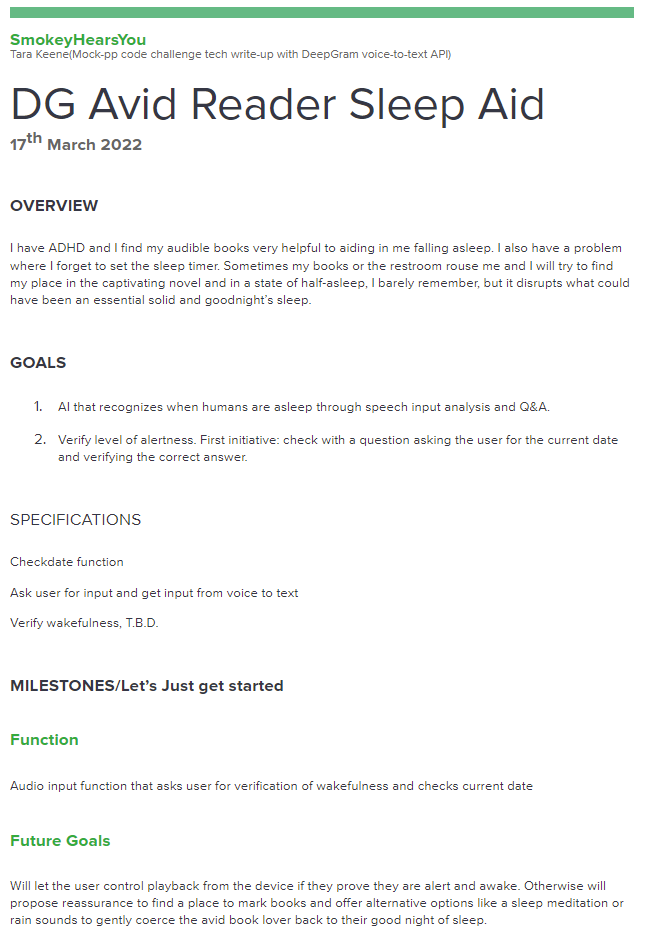
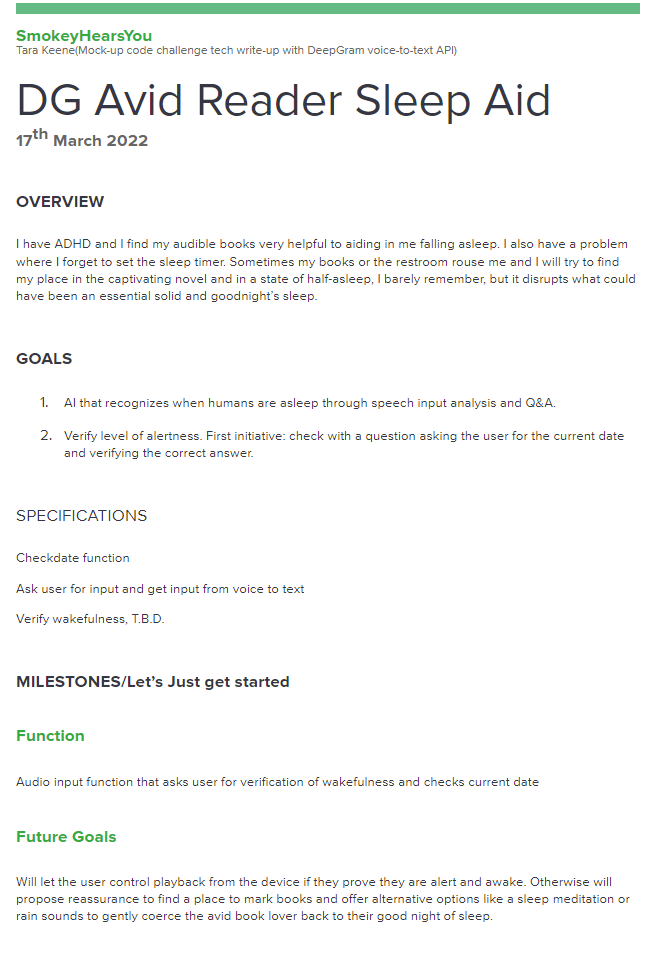
fix html typo

Changed region(s): [[0.0, 0.0, 0.9786, 0.4952], [0.0, 0.5261, 0.948, 0.9904]]

diff --git a/READMEgDoc/Project proposal/Projectproposal.html b/READMEgDoc/Project proposal/Projectproposal.html
@@ -1,1 +1,1 @@
-<html><head><meta content="text/html; charset=UTF-8" http-equiv="content-type"><style type="text/css">@import url('https://themes.googleusercontent.com/fonts/css?kit=3qINvnjb346LubKDfLRn69t6G6Z1RrRfgULZ1AHo7mPOfsfM6rvuuu7h1pY3r_-A');.lst-kix_tsy7d9cmpnql-7>li{counter-increment:lst-ctn-kix_tsy7d9cmpnql-7}ol.lst-kix_1eziyh8wpo9m-7.start{counter-reset:lst-ctn-kix_1eziyh8wpo9m-7 0}.lst-kix_w1b687jpl7aq-2>li{counter-increment:lst-ctn-kix_w1b687jpl7aq-2}.lst-kix_ktelr1m10za6-0>li:before{content:"" counter(lst-ctn-kix_ktelr1m10za6-0,upper-roman) ". "}.lst-kix_ktelr1m10za6-1>li:before{content:"" counter(lst-ctn-kix_ktelr1m10za6-1,upper-latin) ". "}.lst-kix_ktelr1m10za6-3>li:before{content:"" counter(lst-ctn-kix_ktelr1m10za6-3,lower-latin) ") "}.lst-kix_olk4fr9lh4l1-8>li{counter-increment:lst-ctn-kix_olk4fr9lh4l1-8}.lst-kix_ktelr1m10za6-2>li:before{content:"" counter(lst-ctn-kix_ktelr1m10za6-2,decimal) ". "}ol.lst-kix_olk4fr9lh4l1-3.start{counter-reset:lst-ctn-kix_olk4fr9lh4l1-3 0}ol.lst-kix_nmvs9ggv30vs-3.start{counter-reset:lst-ctn-kix_nmvs9ggv30vs-3 0}.lst-kix_olk4fr9lh4l1-6>li{counter-increment:lst-ctn-kix_olk4fr9lh4l1-6}.lst-kix_1eziyh8wpo9m-8>li{counter-increment:lst-ctn-kix_1eziyh8wpo9m-8}.lst-kix_w1b687jpl7aq-0>li{counter-increment:lst-ctn-kix_w1b687jpl7aq-0}ol.lst-kix_ktelr1m10za6-3.start{counter-reset:lst-ctn-kix_ktelr1m10za6-3 0}.lst-kix_w1b687jpl7aq-6>li{counter-increment:lst-ctn-kix_w1b687jpl7aq-6}.lst-kix_tsy7d9cmpnql-5>li{counter-increment:lst-ctn-kix_tsy7d9cmpnql-5}ol.lst-kix_olk4fr9lh4l1-8.start{counter-reset:lst-ctn-kix_olk4fr9lh4l1-8 0}ol.lst-kix_ktelr1m10za6-4.start{counter-reset:lst-ctn-kix_ktelr1m10za6-4 0}.lst-kix_nmvs9ggv30vs-2>li{counter-increment:lst-ctn-kix_nmvs9ggv30vs-2}ol.lst-kix_nmvs9ggv30vs-5{list-style-type:none}ol.lst-kix_nmvs9ggv30vs-4{list-style-type:none}ol.lst-kix_nmvs9ggv30vs-7{list-style-type:none}ol.lst-kix_nmvs9ggv30vs-6{list-style-type:none}.lst-kix_ktelr1m10za6-5>li:before{content:"(" counter(lst-ctn-kix_ktelr1m10za6-5,lower-latin) ") "}.lst-kix_ktelr1m10za6-7>li:before{content:"(" counter(lst-ctn-kix_ktelr1m10za6-7,lower-latin) ") "}ol.lst-kix_nmvs9ggv30vs-8{list-style-type:none}.lst-kix_ktelr1m10za6-4>li:before{content:"(" counter(lst-ctn-kix_ktelr1m10za6-4,decimal) ") "}.lst-kix_ktelr1m10za6-8>li:before{content:"(" counter(lst-ctn-kix_ktelr1m10za6-8,lower-roman) ") "}.lst-kix_olk4fr9lh4l1-1>li{counter-increment:lst-ctn-kix_olk4fr9lh4l1-1}.lst-kix_ktelr1m10za6-6>li:before{content:"(" counter(lst-ctn-kix_ktelr1m10za6-6,lower-roman) ") "}.lst-kix_olk4fr9lh4l1-4>li{counter-increment:lst-ctn-kix_olk4fr9lh4l1-4}.lst-kix_ktelr1m10za6-0>li{counter-increment:lst-ctn-kix_ktelr1m10za6-0}ol.lst-kix_olk4fr9lh4l1-2.start{counter-reset:lst-ctn-kix_olk4fr9lh4l1-2 0}ol.lst-kix_nmvs9ggv30vs-1{list-style-type:none}.lst-kix_1eziyh8wpo9m-1>li{counter-increment:lst-ctn-kix_1eziyh8wpo9m-1}ol.lst-kix_nmvs9ggv30vs-0{list-style-type:none}ol.lst-kix_nmvs9ggv30vs-3{list-style-type:none}ol.lst-kix_nmvs9ggv30vs-2{list-style-type:none}ol.lst-kix_tsy7d9cmpnql-6.start{counter-reset:lst-ctn-kix_tsy7d9cmpnql-6 0}.lst-kix_1eziyh8wpo9m-5>li{counter-increment:lst-ctn-kix_1eziyh8wpo9m-5}ol.lst-kix_nmvs9ggv30vs-4.start{counter-reset:lst-ctn-kix_nmvs9ggv30vs-4 0}.lst-kix_w1b687jpl7aq-3>li:before{content:"" counter(lst-ctn-kix_w1b687jpl7aq-3,decimal) ". "}ol.lst-kix_ktelr1m10za6-2.start{counter-reset:lst-ctn-kix_ktelr1m10za6-2 0}ol.lst-kix_nmvs9ggv30vs-1.start{counter-reset:lst-ctn-kix_nmvs9ggv30vs-1 0}ol.lst-kix_w1b687jpl7aq-1.start{counter-reset:lst-ctn-kix_w1b687jpl7aq-1 0}.lst-kix_w1b687jpl7aq-5>li:before{content:"" counter(lst-ctn-kix_w1b687jpl7aq-5,lower-roman) ". "}ol.lst-kix_tsy7d9cmpnql-3.start{counter-reset:lst-ctn-kix_tsy7d9cmpnql-3 0}.lst-kix_w1b687jpl7aq-8>li{counter-increment:lst-ctn-kix_w1b687jpl7aq-8}.lst-kix_tsy7d9cmpnql-1>li{counter-increment:lst-ctn-kix_tsy7d9cmpnql-1}.lst-kix_w1b687jpl7aq-7>li:before{content:"" counter(lst-ctn-kix_w1b687jpl7aq-7,lower-latin) ". "}ol.lst-kix_w1b687jpl7aq-4.start{counter-reset:lst-ctn-kix_w1b687jpl7aq-4 0}.lst-kix_nmvs9ggv30vs-4>li{counter-increment:lst-ctn-kix_nmvs9ggv30vs-4}.lst-kix_ktelr1m10za6-7>li{counter-increment:lst-ctn-kix_ktelr1m10za6-7}ol.lst-kix_1eziyh8wpo9m-6.start{counter-reset:lst-ctn-kix_1eziyh8wpo9m-6 0}.lst-kix_w1b687jpl7aq-1>li:before{content:"" counter(lst-ctn-kix_w1b687jpl7aq-1,lower-latin) ". "}ol.lst-kix_olk4fr9lh4l1-4.start{counter-reset:lst-ctn-kix_olk4fr9lh4l1-4 0}ol.lst-kix_olk4fr9lh4l1-7.start{counter-reset:lst-ctn-kix_olk4fr9lh4l1-7 0}ol.lst-kix_ktelr1m10za6-0.start{counter-reset:lst-ctn-kix_ktelr1m10za6-0 0}.lst-kix_olk4fr9lh4l1-0>li{counter-increment:lst-ctn-kix_olk4fr9lh4l1-0}.lst-kix_ktelr1m10za6-8>li{counter-increment:lst-ctn-kix_ktelr1m10za6-8}ol.lst-kix_tsy7d9cmpnql-4.start{counter-reset:lst-ctn-kix_tsy7d9cmpnql-4 0}ol.lst-kix_w1b687jpl7aq-3.start{counter-reset:lst-ctn-kix_w1b687jpl7aq-3 0}.lst-kix_nmvs9ggv30vs-3>li{counter-increment:lst-ctn-kix_nmvs9ggv30vs-3}.lst-kix_ktelr1m10za6-2>li{counter-increment:lst-ctn-kix_ktelr1m10za6-2}ol.lst-kix_1eziyh8wpo9m-8.start{counter-reset:lst-ctn-kix_1eziyh8wpo9m-8 0}.lst-kix_1eziyh8wpo9m-6>li{counter-increment:lst-ctn-kix_1eziyh8wpo9m-6}.lst-kix_olk4fr9lh4l1-5>li{counter-increment:lst-ctn-kix_olk4fr9lh4l1-5}.lst-kix_tsy7d9cmpnql-3>li:before{content:"" counter(lst-ctn-kix_tsy7d9cmpnql-3,decimal) ". "}.lst-kix_w1b687jpl7aq-7>li{counter-increment:lst-ctn-kix_w1b687jpl7aq-7}.lst-kix_nmvs9ggv30vs-3>li:before{content:"" counter(lst-ctn-kix_nmvs9ggv30vs-3,decimal) ". "}.lst-kix_tsy7d9cmpnql-0>li{counter-increment:lst-ctn-kix_tsy7d9cmpnql-0}.lst-kix_tsy7d9cmpnql-1>li:before{content:"" counter(lst-ctn-kix_tsy7d9cmpnql-1,lower-latin) ". "}.lst-kix_tsy7d9cmpnql-5>li:before{content:"" counter(lst-ctn-kix_tsy7d9cmpnql-5,lower-roman) ". "}.lst-kix_nmvs9ggv30vs-1>li:before{content:"" counter(lst-ctn-kix_nmvs9ggv30vs-1,lower-latin) ". "}.lst-kix_nmvs9ggv30vs-5>li:before{content:"" counter(lst-ctn-kix_nmvs9ggv30vs-5,lower-roman) ". "}ol.lst-kix_tsy7d9cmpnql-7{list-style-type:none}ol.lst-kix_tsy7d9cmpnql-6{list-style-type:none}ol.lst-kix_tsy7d9cmpnql-8{list-style-type:none}ol.lst-kix_ktelr1m10za6-1.start{counter-reset:lst-ctn-kix_ktelr1m10za6-1 0}ol.lst-kix_tsy7d9cmpnql-3{list-style-type:none}ol.lst-kix_tsy7d9cmpnql-2{list-style-type:none}.lst-kix_w1b687jpl7aq-1>li{counter-increment:lst-ctn-kix_w1b687jpl7aq-1}ol.lst-kix_w1b687jpl7aq-2.start{counter-reset:lst-ctn-kix_w1b687jpl7aq-2 0}ol.lst-kix_olk4fr9lh4l1-5.start{counter-reset:lst-ctn-kix_olk4fr9lh4l1-5 0}ol.lst-kix_tsy7d9cmpnql-5{list-style-type:none}ol.lst-kix_tsy7d9cmpnql-5.start{counter-reset:lst-ctn-kix_tsy7d9cmpnql-5 0}ol.lst-kix_tsy7d9cmpnql-4{list-style-type:none}ol.lst-kix_tsy7d9cmpnql-1{list-style-type:none}ol.lst-kix_tsy7d9cmpnql-0{list-style-type:none}.lst-kix_tsy7d9cmpnql-7>li:before{content:"" counter(lst-ctn-kix_tsy7d9cmpnql-7,lower-latin) ". "}.lst-kix_nmvs9ggv30vs-7>li:before{content:"" counter(lst-ctn-kix_nmvs9ggv30vs-7,lower-latin) ". "}.lst-kix_tsy7d9cmpnql-6>li{counter-increment:lst-ctn-kix_tsy7d9cmpnql-6}ol.lst-kix_nmvs9ggv30vs-2.start{counter-reset:lst-ctn-kix_nmvs9ggv30vs-2 0}ol.lst-kix_olk4fr9lh4l1-6.start{counter-reset:lst-ctn-kix_olk4fr9lh4l1-6 0}ol.lst-kix_w1b687jpl7aq-5.start{counter-reset:lst-ctn-kix_w1b687jpl7aq-5 0}.lst-kix_tsy7d9cmpnql-8>li{counter-increment:lst-ctn-kix_tsy7d9cmpnql-8}.lst-kix_tsy7d9cmpnql-0>li:before{content:"" counter(lst-ctn-kix_tsy7d9cmpnql-0,upper-latin) ". "}.lst-kix_nmvs9ggv30vs-1>li{counter-increment:lst-ctn-kix_nmvs9ggv30vs-1}.lst-kix_1eziyh8wpo9m-0>li{counter-increment:lst-ctn-kix_1eziyh8wpo9m-0}ol.lst-kix_olk4fr9lh4l1-0.start{counter-reset:lst-ctn-kix_olk4fr9lh4l1-0 0}.lst-kix_olk4fr9lh4l1-8>li:before{content:"" counter(lst-ctn-kix_olk4fr9lh4l1-8,decimal) ". "}.lst-kix_olk4fr9lh4l1-7>li:before{content:"" counter(lst-ctn-kix_olk4fr9lh4l1-7,lower-roman) ". "}.lst-kix_olk4fr9lh4l1-6>li:before{content:"" counter(lst-ctn-kix_olk4fr9lh4l1-6,lower-latin) ". "}.lst-kix_ktelr1m10za6-1>li{counter-increment:lst-ctn-kix_ktelr1m10za6-1}ol.lst-kix_ktelr1m10za6-6.start{counter-reset:lst-ctn-kix_ktelr1m10za6-6 0}ol.lst-kix_nmvs9ggv30vs-0.start{counter-reset:lst-ctn-kix_nmvs9ggv30vs-0 0}.lst-kix_w1b687jpl7aq-3>li{counter-increment:lst-ctn-kix_w1b687jpl7aq-3}ol.lst-kix_tsy7d9cmpnql-7.start{counter-reset:lst-ctn-kix_tsy7d9cmpnql-7 0}ol.lst-kix_w1b687jpl7aq-0.start{counter-reset:lst-ctn-kix_w1b687jpl7aq-0 0}.lst-kix_1eziyh8wpo9m-2>li:before{content:"" counter(lst-ctn-kix_1eziyh8wpo9m-2,lower-roman) ". "}ol.lst-kix_w1b687jpl7aq-0{list-style-type:none}.lst-kix_1eziyh8wpo9m-4>li:before{content:"" counter(lst-ctn-kix_1eziyh8wpo9m-4,lower-latin) ". "}.lst-kix_1eziyh8wpo9m-1>li:before{content:"" counter(lst-ctn-kix_1eziyh8wpo9m-1,lower-latin) ". "}ol.lst-kix_1eziyh8wpo9m-5.start{counter-reset:lst-ctn-kix_1eziyh8wpo9m-5 0}.lst-kix_1eziyh8wpo9m-5>li:before{content:"" counter(lst-ctn-kix_1eziyh8wpo9m-5,lower-roman) ". "}.lst-kix_1eziyh8wpo9m-7>li{counter-increment:lst-ctn-kix_1eziyh8wpo9m-7}ol.lst-kix_w1b687jpl7aq-6{list-style-type:none}ol.lst-kix_olk4fr9lh4l1-1.start{counter-reset:lst-ctn-kix_olk4fr9lh4l1-1 0}.lst-kix_nmvs9ggv30vs-8>li{counter-increment:lst-ctn-kix_nmvs9ggv30vs-8}ol.lst-kix_w1b687jpl7aq-5{list-style-type:none}ol.lst-kix_w1b687jpl7aq-8{list-style-type:none}ol.lst-kix_w1b687jpl7aq-7{list-style-type:none}ol.lst-kix_w1b687jpl7aq-2{list-style-type:none}ol.lst-kix_w1b687jpl7aq-1{list-style-type:none}ol.lst-kix_w1b687jpl7aq-4{list-style-type:none}.lst-kix_1eziyh8wpo9m-3>li:before{content:"" counter(lst-ctn-kix_1eziyh8wpo9m-3,decimal) ". "}ol.lst-kix_w1b687jpl7aq-3{list-style-type:none}ol.lst-kix_nmvs9ggv30vs-6.start{counter-reset:lst-ctn-kix_nmvs9ggv30vs-6 0}.lst-kix_olk4fr9lh4l1-3>li:before{content:"" counter(lst-ctn-kix_olk4fr9lh4l1-3,lower-latin) ". "}ol.lst-kix_tsy7d9cmpnql-1.start{counter-reset:lst-ctn-kix_tsy7d9cmpnql-1 0}.lst-kix_olk4fr9lh4l1-1>li:before{content:"" counter(lst-ctn-kix_olk4fr9lh4l1-1,lower-roman) ". "}.lst-kix_olk4fr9lh4l1-5>li:before{content:"" counter(lst-ctn-kix_olk4fr9lh4l1-5,decimal) ". "}ol.lst-kix_tsy7d9cmpnql-8.start{counter-reset:lst-ctn-kix_tsy7d9cmpnql-8 0}.lst-kix_olk4fr9lh4l1-0>li:before{content:"" counter(lst-ctn-kix_olk4fr9lh4l1-0,lower-latin) ". "}.lst-kix_olk4fr9lh4l1-4>li:before{content:"" counter(lst-ctn-kix_olk4fr9lh4l1-4,lower-roman) ". "}.lst-kix_1eziyh8wpo9m-0>li:before{content:"" counter(lst-ctn-kix_1eziyh8wpo9m-0,upper-latin) ". "}.lst-kix_tsy7d9cmpnql-4>li{counter-increment:lst-ctn-kix_tsy7d9cmpnql-4}.lst-kix_w1b687jpl7aq-5>li{counter-increment:lst-ctn-kix_w1b687jpl7aq-5}.lst-kix_olk4fr9lh4l1-2>li:before{content:"" counter(lst-ctn-kix_olk4fr9lh4l1-2,decimal) ". "}ol.lst-kix_1eziyh8wpo9m-2{list-style-type:none}ol.lst-kix_1eziyh8wpo9m-1{list-style-type:none}ol.lst-kix_1eziyh8wpo9m-0{list-style-type:none}.lst-kix_ktelr1m10za6-6>li{counter-increment:lst-ctn-kix_ktelr1m10za6-6}ol.lst-kix_tsy7d9cmpnql-2.start{counter-reset:lst-ctn-kix_tsy7d9cmpnql-2 0}ol.lst-kix_nmvs9ggv30vs-5.start{counter-reset:lst-ctn-kix_nmvs9ggv30vs-5 0}.lst-kix_ktelr1m10za6-3>li{counter-increment:lst-ctn-kix_ktelr1m10za6-3}.lst-kix_olk4fr9lh4l1-7>li{counter-increment:lst-ctn-kix_olk4fr9lh4l1-7}.lst-kix_1eziyh8wpo9m-4>li{counter-increment:lst-ctn-kix_1eziyh8wpo9m-4}.lst-kix_1eziyh8wpo9m-6>li:before{content:"" counter(lst-ctn-kix_1eziyh8wpo9m-6,decimal) ". "}.lst-kix_1eziyh8wpo9m-8>li:before{content:"" counter(lst-ctn-kix_1eziyh8wpo9m-8,lower-roman) ". "}ol.lst-kix_1eziyh8wpo9m-4.start{counter-reset:lst-ctn-kix_1eziyh8wpo9m-4 0}.lst-kix_1eziyh8wpo9m-7>li:before{content:"" counter(lst-ctn-kix_1eziyh8wpo9m-7,lower-latin) ". "}ol.lst-kix_ktelr1m10za6-3{list-style-type:none}ol.lst-kix_ktelr1m10za6-5.start{counter-reset:lst-ctn-kix_ktelr1m10za6-5 0}ol.lst-kix_ktelr1m10za6-4{list-style-type:none}ol.lst-kix_ktelr1m10za6-1{list-style-type:none}.lst-kix_olk4fr9lh4l1-2>li{counter-increment:lst-ctn-kix_olk4fr9lh4l1-2}ol.lst-kix_1eziyh8wpo9m-0.start{counter-reset:lst-ctn-kix_1eziyh8wpo9m-0 0}ol.lst-kix_ktelr1m10za6-2{list-style-type:none}ol.lst-kix_ktelr1m10za6-0{list-style-type:none}.lst-kix_w1b687jpl7aq-2>li:before{content:"" counter(lst-ctn-kix_w1b687jpl7aq-2,lower-roman) ". "}.lst-kix_nmvs9ggv30vs-6>li{counter-increment:lst-ctn-kix_nmvs9ggv30vs-6}ol.lst-kix_1eziyh8wpo9m-3.start{counter-reset:lst-ctn-kix_1eziyh8wpo9m-3 0}.lst-kix_w1b687jpl7aq-4>li:before{content:"" counter(lst-ctn-kix_w1b687jpl7aq-4,lower-latin) ". "}.lst-kix_w1b687jpl7aq-6>li:before{content:"" counter(lst-ctn-kix_w1b687jpl7aq-6,decimal) ". "}ol.lst-kix_1eziyh8wpo9m-6{list-style-type:none}ol.lst-kix_1eziyh8wpo9m-5{list-style-type:none}.lst-kix_nmvs9ggv30vs-5>li{counter-increment:lst-ctn-kix_nmvs9ggv30vs-5}ol.lst-kix_1eziyh8wpo9m-4{list-style-type:none}ol.lst-kix_1eziyh8wpo9m-3{list-style-type:none}.lst-kix_w1b687jpl7aq-8>li:before{content:"" counter(lst-ctn-kix_w1b687jpl7aq-8,lower-roman) ". "}ol.lst-kix_ktelr1m10za6-7{list-style-type:none}ol.lst-kix_ktelr1m10za6-8{list-style-type:none}ol.lst-kix_1eziyh8wpo9m-8{list-style-type:none}ol.lst-kix_ktelr1m10za6-5{list-style-type:none}.lst-kix_ktelr1m10za6-5>li{counter-increment:lst-ctn-kix_ktelr1m10za6-5}ol.lst-kix_1eziyh8wpo9m-7{list-style-type:none}ol.lst-kix_ktelr1m10za6-6{list-style-type:none}.lst-kix_1eziyh8wpo9m-3>li{counter-increment:lst-ctn-kix_1eziyh8wpo9m-3}.lst-kix_ktelr1m10za6-4>li{counter-increment:lst-ctn-kix_ktelr1m10za6-4}ol.lst-kix_tsy7d9cmpnql-0.start{counter-reset:lst-ctn-kix_tsy7d9cmpnql-0 0}ol.lst-kix_w1b687jpl7aq-6.start{counter-reset:lst-ctn-kix_w1b687jpl7aq-6 0}.lst-kix_tsy7d9cmpnql-2>li{counter-increment:lst-ctn-kix_tsy7d9cmpnql-2}.lst-kix_olk4fr9lh4l1-3>li{counter-increment:lst-ctn-kix_olk4fr9lh4l1-3}ol.lst-kix_nmvs9ggv30vs-7.start{counter-reset:lst-ctn-kix_nmvs9ggv30vs-7 0}.lst-kix_w1b687jpl7aq-0>li:before{content:"" counter(lst-ctn-kix_w1b687jpl7aq-0,decimal) ". "}.lst-kix_nmvs9ggv30vs-7>li{counter-increment:lst-ctn-kix_nmvs9ggv30vs-7}ol.lst-kix_olk4fr9lh4l1-0{list-style-type:none}ol.lst-kix_1eziyh8wpo9m-2.start{counter-reset:lst-ctn-kix_1eziyh8wpo9m-2 0}.lst-kix_1eziyh8wpo9m-2>li{counter-increment:lst-ctn-kix_1eziyh8wpo9m-2}ol.lst-kix_w1b687jpl7aq-7.start{counter-reset:lst-ctn-kix_w1b687jpl7aq-7 0}ol.lst-kix_ktelr1m10za6-7.start{counter-reset:lst-ctn-kix_ktelr1m10za6-7 0}ol.lst-kix_olk4fr9lh4l1-4{list-style-type:none}ol.lst-kix_olk4fr9lh4l1-3{list-style-type:none}ol.lst-kix_olk4fr9lh4l1-2{list-style-type:none}ol.lst-kix_olk4fr9lh4l1-1{list-style-type:none}ol.lst-kix_olk4fr9lh4l1-8{list-style-type:none}.lst-kix_nmvs9ggv30vs-0>li:before{content:"" counter(lst-ctn-kix_nmvs9ggv30vs-0,decimal) ". "}ol.lst-kix_olk4fr9lh4l1-7{list-style-type:none}ol.lst-kix_olk4fr9lh4l1-6{list-style-type:none}ol.lst-kix_olk4fr9lh4l1-5{list-style-type:none}.lst-kix_nmvs9ggv30vs-2>li:before{content:"" counter(lst-ctn-kix_nmvs9ggv30vs-2,lower-roman) ". "}.lst-kix_tsy7d9cmpnql-2>li:before{content:"" counter(lst-ctn-kix_tsy7d9cmpnql-2,lower-roman) ". "}.lst-kix_tsy7d9cmpnql-4>li:before{content:"" counter(lst-ctn-kix_tsy7d9cmpnql-4,lower-latin) ". "}.lst-kix_w1b687jpl7aq-4>li{counter-increment:lst-ctn-kix_w1b687jpl7aq-4}.lst-kix_tsy7d9cmpnql-3>li{counter-increment:lst-ctn-kix_tsy7d9cmpnql-3}ol.lst-kix_1eziyh8wpo9m-1.start{counter-reset:lst-ctn-kix_1eziyh8wpo9m-1 0}ol.lst-kix_nmvs9ggv30vs-8.start{counter-reset:lst-ctn-kix_nmvs9ggv30vs-8 0}.lst-kix_nmvs9ggv30vs-4>li:before{content:"" counter(lst-ctn-kix_nmvs9ggv30vs-4,lower-latin) ". "}li.li-bullet-0:before{margin-left:-18pt;white-space:nowrap;display:inline-block;min-width:18pt}ol.lst-kix_ktelr1m10za6-8.start{counter-reset:lst-ctn-kix_ktelr1m10za6-8 0}ol.lst-kix_w1b687jpl7aq-8.start{counter-reset:lst-ctn-kix_w1b687jpl7aq-8 0}.lst-kix_nmvs9ggv30vs-0>li{counter-increment:lst-ctn-kix_nmvs9ggv30vs-0}.lst-kix_nmvs9ggv30vs-6>li:before{content:"" counter(lst-ctn-kix_nmvs9ggv30vs-6,decimal) ". "}.lst-kix_tsy7d9cmpnql-6>li:before{content:"" counter(lst-ctn-kix_tsy7d9cmpnql-6,decimal) ". "}.lst-kix_tsy7d9cmpnql-8>li:before{content:"" counter(lst-ctn-kix_tsy7d9cmpnql-8,lower-roman) ". "}.lst-kix_nmvs9ggv30vs-8>li:before{content:"" counter(lst-ctn-kix_nmvs9ggv30vs-8,lower-roman) ". "}ol{margin:0;padding:0}table td,table th{padding:0}.c4{margin-left:36pt;padding-top:10pt;padding-left:0pt;padding-bottom:0pt;line-height:1.3;orphans:2;widows:2;text-align:left}.c10{color:#666666;font-weight:400;text-decoration:none;vertical-align:baseline;font-size:9pt;font-family:"Proxima Nova";font-style:normal}.c15{padding-top:20pt;padding-bottom:0pt;line-height:1.3;orphans:2;widows:2;text-align:left;height:11pt}.c16{color:#353744;font-weight:400;text-decoration:none;vertical-align:baseline;font-size:11pt;font-family:"Proxima Nova";font-style:normal}.c8{color:#353744;font-weight:400;text-decoration:none;vertical-align:baseline;font-size:12pt;font-family:"Proxima Nova";font-style:normal}.c3{color:#00ab44;font-weight:700;text-decoration:none;vertical-align:baseline;font-size:13pt;font-family:"Proxima Nova";font-style:normal}.c6{color:#353744;font-weight:700;text-decoration:none;vertical-align:baseline;font-size:13pt;font-family:"Proxima Nova";font-style:normal}.c0{color:#353744;font-weight:400;text-decoration:none;vertical-align:baseline;font-size:10pt;font-family:"Proxima Nova";font-style:normal}.c5{padding-top:0pt;padding-bottom:0pt;line-height:1.0;orphans:2;widows:2;text-align:left}.c7{padding-top:16pt;padding-bottom:0pt;line-height:1.0;orphans:2;widows:2;text-align:left}.c9{padding-top:10pt;padding-bottom:0pt;line-height:1.3;orphans:2;widows:2;text-align:left}.c23{padding-top:0pt;padding-bottom:10pt;line-height:1.0;orphans:2;widows:2;text-align:left}.c13{padding-top:0pt;padding-bottom:0pt;line-height:1.3;orphans:2;widows:2;text-align:left}.c2{padding-top:24pt;padding-bottom:0pt;line-height:1.0;orphans:2;widows:2;text-align:left}.c24{color:#666666;text-decoration:none;vertical-align:baseline;font-family:"Proxima Nova";font-style:normal}.c20{color:#353744;text-decoration:none;vertical-align:baseline;font-size:35pt;font-style:normal}.c17{background-color:#ffffff;max-width:468pt;padding:54pt 72pt 54pt 72pt}.c18{color:#666666;font-size:9pt}.c21{padding:0;margin:0}.c11{vertical-align:super;font-weight:700}.c19{font-family:"Proxima Nova";font-weight:400}.c14{font-weight:700}.c22{font-size:35pt}.c12{font-size:13pt}.c1{font-size:10pt}.title{padding-top:16pt;color:#353744;font-size:36pt;padding-bottom:0pt;font-family:"Proxima Nova";line-height:1.0;orphans:2;widows:2;text-align:left}.subtitle{padding-top:0pt;color:#666666;font-size:13pt;padding-bottom:0pt;font-family:"Proxima Nova";line-height:1.0;orphans:2;widows:2;text-align:left}li{color:#353744;font-size:11pt;font-family:"Proxima Nova"}p{margin:0;color:#353744;font-size:11pt;font-family:"Proxima Nova"}h1{padding-top:24pt;color:#353744;font-weight:700;font-size:14pt;padding-bottom:0pt;font-family:"Proxima Nova";line-height:1.0;orphans:2;widows:2;text-align:left}h2{padding-top:16pt;color:#00ab44;font-weight:700;font-size:14pt;padding-bottom:0pt;font-family:"Proxima Nova";line-height:1.0;orphans:2;widows:2;text-align:left}h3{padding-top:10pt;color:#353744;font-size:13pt;padding-bottom:0pt;font-family:"Proxima Nova";line-height:1.0;orphans:2;widows:2;text-align:left}h4{padding-top:8pt;-webkit-text-decoration-skip:none;color:#666666;text-decoration:underline;font-size:11pt;padding-bottom:0pt;line-height:1.3;page-break-after:avoid;text-decoration-skip-ink:none;font-family:"Trebuchet MS";orphans:2;widows:2;text-align:left}h5{padding-top:8pt;color:#666666;font-size:11pt;padding-bottom:0pt;font-family:"Trebuchet MS";line-height:1.3;page-break-after:avoid;orphans:2;widows:2;text-align:left}h6{padding-top:8pt;color:#666666;font-size:11pt;padding-bottom:0pt;font-family:"Trebuchet MS";line-height:1.3;page-break-after:avoid;font-style:italic;orphans:2;widows:2;text-align:left}</style></head><body class="c17"><div><p class="c15"><span class="c16"></span></p><p class="c13"><span style="overflow: hidden; display: inline-block; margin: 0.00px 0.00px; border: 0.00px solid #000000; transform: rotate(0.00rad) translateZ(0px); -webkit-transform: rotate(0.00rad) translateZ(0px); width: 624.00px; height: 4.00px;"><img alt="" src="images/image1.png" style="width: 624.00px; height: 4.00px; margin-left: 0.00px; margin-top: 0.00px; transform: rotate(0.00rad) translateZ(0px); -webkit-transform: rotate(0.00rad) translateZ(0px);" title="horizontal line"></span></p></div><p class="c23"><span style="overflow: hidden; display: inline-block; margin: 0.00px 0.00px; border: 0.00px solid #000000; transform: rotate(0.00rad) translateZ(0px); -webkit-transform: rotate(0.00rad) translateZ(0px); width: 624.00px; height: 6.67px;"><img alt="" src="images/image2.png" style="width: 624.00px; height: 6.67px; margin-left: 0.00px; margin-top: 0.00px; transform: rotate(0.00rad) translateZ(0px); -webkit-transform: rotate(0.00rad) translateZ(0px);" title="horizontal line"></span></p><p class="c5"><span class="c3">SmokeyHearsYou</span></p><p class="c5"><span class="c18">Tara Keene(Mock-pp code challenge tech write-up with DeepGram voice-to-text API)</span></p><p class="c7 title" id="h.5x0d5h95i329"><span class="c22">DG Avid Reader Sleep Aid</span></p><p class="c5 subtitle" id="h.af80tl7prv5v"><span class="c14">17</span><span class="c11">th</span><span class="c14">&nbsp;March 2022</span></p><h1 class="c2" id="h.14mpx6a8znb7"><span class="c12">OVERVIEW</span></h1><p class="c9"><span class="c1">I have ADHD and I find my audible books very helpful to aiding in me falling asleep. I also have a problem where I forget to set the sleep timer. Sometimes my books or the restroom rouse me and I will try to find my place in the captivating novel and in a state of half-asleep, I barely remember, but it disrupts what could have been an essential solid and goodnight&rsquo;s sleep.</span></p><h1 class="c2" id="h.oymnw3nlvwib"><span class="c6">GOALS</span></h1><ol class="c21 lst-kix_w1b687jpl7aq-0 start" start="1"><li class="c4 li-bullet-0"><span class="c0">AI that recognizes when humans are asleep through speech input analysis and Q&amp;A.</span></li><li class="c4 li-bullet-0"><span class="c1">Verify level of alertness. First initiative: check with a question asking the user for the current date and verifying the correct answer. &nbsp;</span></li></ol><h1 class="c2" id="h.c5rpsdy8g2ak"><span class="c12 c19">SPECIFICATIONS</span></h1><p class="c9"><span class="c0">Checkdate function</span></p><p class="c9"><span class="c0">Ask user for input and get input from voice to text</span></p><p class="c9"><span class="c1">Verify wakefulness, T.B.D.</span></p><h1 class="c2" id="h.x5u0l8hx0kbh"><span class="c12">MILESTONES/Let&rsquo;s Just get started</span></h1><h2 class="c7" id="h.jltys38rhgql"><span class="c12">Function</span></h2><p class="c9"><span class="c1">Audio input function that asks user for verification of wakefulness and checks current date</span></p><h2 class="c7" id="h.6x8rkjwa8fzc"><span class="c12">Future Goals</span></h2><p class="c9"><span class="c1">Will let the user control playback from the device if they prove they are alert and awake. Otherwise will propose reassurance to find a place to mark books and offer alternative options like a sleep meditation or rain sounds to gently coerce the avid book lover back to their good night of sleep.</span></p></body></html>
+<html><head><meta content="text/html; charset=UTF-8" http-equiv="content-type"><style type="text/css">@import url('https://themes.googleusercontent.com/fonts/css?kit=3qINvnjb346LubKDfLRn69t6G6Z1RrRfgULZ1AHo7mPOfsfM6rvuuu7h1pY3r_-A');.lst-kix_tsy7d9cmpnql-7>li{counter-increment:lst-ctn-kix_tsy7d9cmpnql-7}ol.lst-kix_1eziyh8wpo9m-7.start{counter-reset:lst-ctn-kix_1eziyh8wpo9m-7 0}.lst-kix_w1b687jpl7aq-2>li{counter-increment:lst-ctn-kix_w1b687jpl7aq-2}.lst-kix_ktelr1m10za6-0>li:before{content:"" counter(lst-ctn-kix_ktelr1m10za6-0,upper-roman) ". "}.lst-kix_ktelr1m10za6-1>li:before{content:"" counter(lst-ctn-kix_ktelr1m10za6-1,upper-latin) ". "}.lst-kix_ktelr1m10za6-3>li:before{content:"" counter(lst-ctn-kix_ktelr1m10za6-3,lower-latin) ") "}.lst-kix_olk4fr9lh4l1-8>li{counter-increment:lst-ctn-kix_olk4fr9lh4l1-8}.lst-kix_ktelr1m10za6-2>li:before{content:"" counter(lst-ctn-kix_ktelr1m10za6-2,decimal) ". "}ol.lst-kix_olk4fr9lh4l1-3.start{counter-reset:lst-ctn-kix_olk4fr9lh4l1-3 0}ol.lst-kix_nmvs9ggv30vs-3.start{counter-reset:lst-ctn-kix_nmvs9ggv30vs-3 0}.lst-kix_olk4fr9lh4l1-6>li{counter-increment:lst-ctn-kix_olk4fr9lh4l1-6}.lst-kix_1eziyh8wpo9m-8>li{counter-increment:lst-ctn-kix_1eziyh8wpo9m-8}.lst-kix_w1b687jpl7aq-0>li{counter-increment:lst-ctn-kix_w1b687jpl7aq-0}ol.lst-kix_ktelr1m10za6-3.start{counter-reset:lst-ctn-kix_ktelr1m10za6-3 0}.lst-kix_w1b687jpl7aq-6>li{counter-increment:lst-ctn-kix_w1b687jpl7aq-6}.lst-kix_tsy7d9cmpnql-5>li{counter-increment:lst-ctn-kix_tsy7d9cmpnql-5}ol.lst-kix_olk4fr9lh4l1-8.start{counter-reset:lst-ctn-kix_olk4fr9lh4l1-8 0}ol.lst-kix_ktelr1m10za6-4.start{counter-reset:lst-ctn-kix_ktelr1m10za6-4 0}.lst-kix_nmvs9ggv30vs-2>li{counter-increment:lst-ctn-kix_nmvs9ggv30vs-2}ol.lst-kix_nmvs9ggv30vs-5{list-style-type:none}ol.lst-kix_nmvs9ggv30vs-4{list-style-type:none}ol.lst-kix_nmvs9ggv30vs-7{list-style-type:none}ol.lst-kix_nmvs9ggv30vs-6{list-style-type:none}.lst-kix_ktelr1m10za6-5>li:before{content:"(" counter(lst-ctn-kix_ktelr1m10za6-5,lower-latin) ") "}.lst-kix_ktelr1m10za6-7>li:before{content:"(" counter(lst-ctn-kix_ktelr1m10za6-7,lower-latin) ") "}ol.lst-kix_nmvs9ggv30vs-8{list-style-type:none}.lst-kix_ktelr1m10za6-4>li:before{content:"(" counter(lst-ctn-kix_ktelr1m10za6-4,decimal) ") "}.lst-kix_ktelr1m10za6-8>li:before{content:"(" counter(lst-ctn-kix_ktelr1m10za6-8,lower-roman) ") "}.lst-kix_olk4fr9lh4l1-1>li{counter-increment:lst-ctn-kix_olk4fr9lh4l1-1}.lst-kix_ktelr1m10za6-6>li:before{content:"(" counter(lst-ctn-kix_ktelr1m10za6-6,lower-roman) ") "}.lst-kix_olk4fr9lh4l1-4>li{counter-increment:lst-ctn-kix_olk4fr9lh4l1-4}.lst-kix_ktelr1m10za6-0>li{counter-increment:lst-ctn-kix_ktelr1m10za6-0}ol.lst-kix_olk4fr9lh4l1-2.start{counter-reset:lst-ctn-kix_olk4fr9lh4l1-2 0}ol.lst-kix_nmvs9ggv30vs-1{list-style-type:none}.lst-kix_1eziyh8wpo9m-1>li{counter-increment:lst-ctn-kix_1eziyh8wpo9m-1}ol.lst-kix_nmvs9ggv30vs-0{list-style-type:none}ol.lst-kix_nmvs9ggv30vs-3{list-style-type:none}ol.lst-kix_nmvs9ggv30vs-2{list-style-type:none}ol.lst-kix_tsy7d9cmpnql-6.start{counter-reset:lst-ctn-kix_tsy7d9cmpnql-6 0}.lst-kix_1eziyh8wpo9m-5>li{counter-increment:lst-ctn-kix_1eziyh8wpo9m-5}ol.lst-kix_nmvs9ggv30vs-4.start{counter-reset:lst-ctn-kix_nmvs9ggv30vs-4 0}.lst-kix_w1b687jpl7aq-3>li:before{content:"" counter(lst-ctn-kix_w1b687jpl7aq-3,decimal) ". "}ol.lst-kix_ktelr1m10za6-2.start{counter-reset:lst-ctn-kix_ktelr1m10za6-2 0}ol.lst-kix_nmvs9ggv30vs-1.start{counter-reset:lst-ctn-kix_nmvs9ggv30vs-1 0}ol.lst-kix_w1b687jpl7aq-1.start{counter-reset:lst-ctn-kix_w1b687jpl7aq-1 0}.lst-kix_w1b687jpl7aq-5>li:before{content:"" counter(lst-ctn-kix_w1b687jpl7aq-5,lower-roman) ". "}ol.lst-kix_tsy7d9cmpnql-3.start{counter-reset:lst-ctn-kix_tsy7d9cmpnql-3 0}.lst-kix_w1b687jpl7aq-8>li{counter-increment:lst-ctn-kix_w1b687jpl7aq-8}.lst-kix_tsy7d9cmpnql-1>li{counter-increment:lst-ctn-kix_tsy7d9cmpnql-1}.lst-kix_w1b687jpl7aq-7>li:before{content:"" counter(lst-ctn-kix_w1b687jpl7aq-7,lower-latin) ". "}ol.lst-kix_w1b687jpl7aq-4.start{counter-reset:lst-ctn-kix_w1b687jpl7aq-4 0}.lst-kix_nmvs9ggv30vs-4>li{counter-increment:lst-ctn-kix_nmvs9ggv30vs-4}.lst-kix_ktelr1m10za6-7>li{counter-increment:lst-ctn-kix_ktelr1m10za6-7}ol.lst-kix_1eziyh8wpo9m-6.start{counter-reset:lst-ctn-kix_1eziyh8wpo9m-6 0}.lst-kix_w1b687jpl7aq-1>li:before{content:"" counter(lst-ctn-kix_w1b687jpl7aq-1,lower-latin) ". "}ol.lst-kix_olk4fr9lh4l1-4.start{counter-reset:lst-ctn-kix_olk4fr9lh4l1-4 0}ol.lst-kix_olk4fr9lh4l1-7.start{counter-reset:lst-ctn-kix_olk4fr9lh4l1-7 0}ol.lst-kix_ktelr1m10za6-0.start{counter-reset:lst-ctn-kix_ktelr1m10za6-0 0}.lst-kix_olk4fr9lh4l1-0>li{counter-increment:lst-ctn-kix_olk4fr9lh4l1-0}.lst-kix_ktelr1m10za6-8>li{counter-increment:lst-ctn-kix_ktelr1m10za6-8}ol.lst-kix_tsy7d9cmpnql-4.start{counter-reset:lst-ctn-kix_tsy7d9cmpnql-4 0}ol.lst-kix_w1b687jpl7aq-3.start{counter-reset:lst-ctn-kix_w1b687jpl7aq-3 0}.lst-kix_nmvs9ggv30vs-3>li{counter-increment:lst-ctn-kix_nmvs9ggv30vs-3}.lst-kix_ktelr1m10za6-2>li{counter-increment:lst-ctn-kix_ktelr1m10za6-2}ol.lst-kix_1eziyh8wpo9m-8.start{counter-reset:lst-ctn-kix_1eziyh8wpo9m-8 0}.lst-kix_1eziyh8wpo9m-6>li{counter-increment:lst-ctn-kix_1eziyh8wpo9m-6}.lst-kix_olk4fr9lh4l1-5>li{counter-increment:lst-ctn-kix_olk4fr9lh4l1-5}.lst-kix_tsy7d9cmpnql-3>li:before{content:"" counter(lst-ctn-kix_tsy7d9cmpnql-3,decimal) ". "}.lst-kix_w1b687jpl7aq-7>li{counter-increment:lst-ctn-kix_w1b687jpl7aq-7}.lst-kix_nmvs9ggv30vs-3>li:before{content:"" counter(lst-ctn-kix_nmvs9ggv30vs-3,decimal) ". "}.lst-kix_tsy7d9cmpnql-0>li{counter-increment:lst-ctn-kix_tsy7d9cmpnql-0}.lst-kix_tsy7d9cmpnql-1>li:before{content:"" counter(lst-ctn-kix_tsy7d9cmpnql-1,lower-latin) ". "}.lst-kix_tsy7d9cmpnql-5>li:before{content:"" counter(lst-ctn-kix_tsy7d9cmpnql-5,lower-roman) ". "}.lst-kix_nmvs9ggv30vs-1>li:before{content:"" counter(lst-ctn-kix_nmvs9ggv30vs-1,lower-latin) ". "}.lst-kix_nmvs9ggv30vs-5>li:before{content:"" counter(lst-ctn-kix_nmvs9ggv30vs-5,lower-roman) ". "}ol.lst-kix_tsy7d9cmpnql-7{list-style-type:none}ol.lst-kix_tsy7d9cmpnql-6{list-style-type:none}ol.lst-kix_tsy7d9cmpnql-8{list-style-type:none}ol.lst-kix_ktelr1m10za6-1.start{counter-reset:lst-ctn-kix_ktelr1m10za6-1 0}ol.lst-kix_tsy7d9cmpnql-3{list-style-type:none}ol.lst-kix_tsy7d9cmpnql-2{list-style-type:none}.lst-kix_w1b687jpl7aq-1>li{counter-increment:lst-ctn-kix_w1b687jpl7aq-1}ol.lst-kix_w1b687jpl7aq-2.start{counter-reset:lst-ctn-kix_w1b687jpl7aq-2 0}ol.lst-kix_olk4fr9lh4l1-5.start{counter-reset:lst-ctn-kix_olk4fr9lh4l1-5 0}ol.lst-kix_tsy7d9cmpnql-5{list-style-type:none}ol.lst-kix_tsy7d9cmpnql-5.start{counter-reset:lst-ctn-kix_tsy7d9cmpnql-5 0}ol.lst-kix_tsy7d9cmpnql-4{list-style-type:none}ol.lst-kix_tsy7d9cmpnql-1{list-style-type:none}ol.lst-kix_tsy7d9cmpnql-0{list-style-type:none}.lst-kix_tsy7d9cmpnql-7>li:before{content:"" counter(lst-ctn-kix_tsy7d9cmpnql-7,lower-latin) ". "}.lst-kix_nmvs9ggv30vs-7>li:before{content:"" counter(lst-ctn-kix_nmvs9ggv30vs-7,lower-latin) ". "}.lst-kix_tsy7d9cmpnql-6>li{counter-increment:lst-ctn-kix_tsy7d9cmpnql-6}ol.lst-kix_nmvs9ggv30vs-2.start{counter-reset:lst-ctn-kix_nmvs9ggv30vs-2 0}ol.lst-kix_olk4fr9lh4l1-6.start{counter-reset:lst-ctn-kix_olk4fr9lh4l1-6 0}ol.lst-kix_w1b687jpl7aq-5.start{counter-reset:lst-ctn-kix_w1b687jpl7aq-5 0}.lst-kix_tsy7d9cmpnql-8>li{counter-increment:lst-ctn-kix_tsy7d9cmpnql-8}.lst-kix_tsy7d9cmpnql-0>li:before{content:"" counter(lst-ctn-kix_tsy7d9cmpnql-0,upper-latin) ". "}.lst-kix_nmvs9ggv30vs-1>li{counter-increment:lst-ctn-kix_nmvs9ggv30vs-1}.lst-kix_1eziyh8wpo9m-0>li{counter-increment:lst-ctn-kix_1eziyh8wpo9m-0}ol.lst-kix_olk4fr9lh4l1-0.start{counter-reset:lst-ctn-kix_olk4fr9lh4l1-0 0}.lst-kix_olk4fr9lh4l1-8>li:before{content:"" counter(lst-ctn-kix_olk4fr9lh4l1-8,decimal) ". "}.lst-kix_olk4fr9lh4l1-7>li:before{content:"" counter(lst-ctn-kix_olk4fr9lh4l1-7,lower-roman) ". "}.lst-kix_olk4fr9lh4l1-6>li:before{content:"" counter(lst-ctn-kix_olk4fr9lh4l1-6,lower-latin) ". "}.lst-kix_ktelr1m10za6-1>li{counter-increment:lst-ctn-kix_ktelr1m10za6-1}ol.lst-kix_ktelr1m10za6-6.start{counter-reset:lst-ctn-kix_ktelr1m10za6-6 0}ol.lst-kix_nmvs9ggv30vs-0.start{counter-reset:lst-ctn-kix_nmvs9ggv30vs-0 0}.lst-kix_w1b687jpl7aq-3>li{counter-increment:lst-ctn-kix_w1b687jpl7aq-3}ol.lst-kix_tsy7d9cmpnql-7.start{counter-reset:lst-ctn-kix_tsy7d9cmpnql-7 0}ol.lst-kix_w1b687jpl7aq-0.start{counter-reset:lst-ctn-kix_w1b687jpl7aq-0 0}.lst-kix_1eziyh8wpo9m-2>li:before{content:"" counter(lst-ctn-kix_1eziyh8wpo9m-2,lower-roman) ". "}ol.lst-kix_w1b687jpl7aq-0{list-style-type:none}.lst-kix_1eziyh8wpo9m-4>li:before{content:"" counter(lst-ctn-kix_1eziyh8wpo9m-4,lower-latin) ". "}.lst-kix_1eziyh8wpo9m-1>li:before{content:"" counter(lst-ctn-kix_1eziyh8wpo9m-1,lower-latin) ". "}ol.lst-kix_1eziyh8wpo9m-5.start{counter-reset:lst-ctn-kix_1eziyh8wpo9m-5 0}.lst-kix_1eziyh8wpo9m-5>li:before{content:"" counter(lst-ctn-kix_1eziyh8wpo9m-5,lower-roman) ". "}.lst-kix_1eziyh8wpo9m-7>li{counter-increment:lst-ctn-kix_1eziyh8wpo9m-7}ol.lst-kix_w1b687jpl7aq-6{list-style-type:none}ol.lst-kix_olk4fr9lh4l1-1.start{counter-reset:lst-ctn-kix_olk4fr9lh4l1-1 0}.lst-kix_nmvs9ggv30vs-8>li{counter-increment:lst-ctn-kix_nmvs9ggv30vs-8}ol.lst-kix_w1b687jpl7aq-5{list-style-type:none}ol.lst-kix_w1b687jpl7aq-8{list-style-type:none}ol.lst-kix_w1b687jpl7aq-7{list-style-type:none}ol.lst-kix_w1b687jpl7aq-2{list-style-type:none}ol.lst-kix_w1b687jpl7aq-1{list-style-type:none}ol.lst-kix_w1b687jpl7aq-4{list-style-type:none}.lst-kix_1eziyh8wpo9m-3>li:before{content:"" counter(lst-ctn-kix_1eziyh8wpo9m-3,decimal) ". "}ol.lst-kix_w1b687jpl7aq-3{list-style-type:none}ol.lst-kix_nmvs9ggv30vs-6.start{counter-reset:lst-ctn-kix_nmvs9ggv30vs-6 0}.lst-kix_olk4fr9lh4l1-3>li:before{content:"" counter(lst-ctn-kix_olk4fr9lh4l1-3,lower-latin) ". "}ol.lst-kix_tsy7d9cmpnql-1.start{counter-reset:lst-ctn-kix_tsy7d9cmpnql-1 0}.lst-kix_olk4fr9lh4l1-1>li:before{content:"" counter(lst-ctn-kix_olk4fr9lh4l1-1,lower-roman) ". "}.lst-kix_olk4fr9lh4l1-5>li:before{content:"" counter(lst-ctn-kix_olk4fr9lh4l1-5,decimal) ". "}ol.lst-kix_tsy7d9cmpnql-8.start{counter-reset:lst-ctn-kix_tsy7d9cmpnql-8 0}.lst-kix_olk4fr9lh4l1-0>li:before{content:"" counter(lst-ctn-kix_olk4fr9lh4l1-0,lower-latin) ". "}.lst-kix_olk4fr9lh4l1-4>li:before{content:"" counter(lst-ctn-kix_olk4fr9lh4l1-4,lower-roman) ". "}.lst-kix_1eziyh8wpo9m-0>li:before{content:"" counter(lst-ctn-kix_1eziyh8wpo9m-0,upper-latin) ". "}.lst-kix_tsy7d9cmpnql-4>li{counter-increment:lst-ctn-kix_tsy7d9cmpnql-4}.lst-kix_w1b687jpl7aq-5>li{counter-increment:lst-ctn-kix_w1b687jpl7aq-5}.lst-kix_olk4fr9lh4l1-2>li:before{content:"" counter(lst-ctn-kix_olk4fr9lh4l1-2,decimal) ". "}ol.lst-kix_1eziyh8wpo9m-2{list-style-type:none}ol.lst-kix_1eziyh8wpo9m-1{list-style-type:none}ol.lst-kix_1eziyh8wpo9m-0{list-style-type:none}.lst-kix_ktelr1m10za6-6>li{counter-increment:lst-ctn-kix_ktelr1m10za6-6}ol.lst-kix_tsy7d9cmpnql-2.start{counter-reset:lst-ctn-kix_tsy7d9cmpnql-2 0}ol.lst-kix_nmvs9ggv30vs-5.start{counter-reset:lst-ctn-kix_nmvs9ggv30vs-5 0}.lst-kix_ktelr1m10za6-3>li{counter-increment:lst-ctn-kix_ktelr1m10za6-3}.lst-kix_olk4fr9lh4l1-7>li{counter-increment:lst-ctn-kix_olk4fr9lh4l1-7}.lst-kix_1eziyh8wpo9m-4>li{counter-increment:lst-ctn-kix_1eziyh8wpo9m-4}.lst-kix_1eziyh8wpo9m-6>li:before{content:"" counter(lst-ctn-kix_1eziyh8wpo9m-6,decimal) ". "}.lst-kix_1eziyh8wpo9m-8>li:before{content:"" counter(lst-ctn-kix_1eziyh8wpo9m-8,lower-roman) ". "}ol.lst-kix_1eziyh8wpo9m-4.start{counter-reset:lst-ctn-kix_1eziyh8wpo9m-4 0}.lst-kix_1eziyh8wpo9m-7>li:before{content:"" counter(lst-ctn-kix_1eziyh8wpo9m-7,lower-latin) ". "}ol.lst-kix_ktelr1m10za6-3{list-style-type:none}ol.lst-kix_ktelr1m10za6-5.start{counter-reset:lst-ctn-kix_ktelr1m10za6-5 0}ol.lst-kix_ktelr1m10za6-4{list-style-type:none}ol.lst-kix_ktelr1m10za6-1{list-style-type:none}.lst-kix_olk4fr9lh4l1-2>li{counter-increment:lst-ctn-kix_olk4fr9lh4l1-2}ol.lst-kix_1eziyh8wpo9m-0.start{counter-reset:lst-ctn-kix_1eziyh8wpo9m-0 0}ol.lst-kix_ktelr1m10za6-2{list-style-type:none}ol.lst-kix_ktelr1m10za6-0{list-style-type:none}.lst-kix_w1b687jpl7aq-2>li:before{content:"" counter(lst-ctn-kix_w1b687jpl7aq-2,lower-roman) ". "}.lst-kix_nmvs9ggv30vs-6>li{counter-increment:lst-ctn-kix_nmvs9ggv30vs-6}ol.lst-kix_1eziyh8wpo9m-3.start{counter-reset:lst-ctn-kix_1eziyh8wpo9m-3 0}.lst-kix_w1b687jpl7aq-4>li:before{content:"" counter(lst-ctn-kix_w1b687jpl7aq-4,lower-latin) ". "}.lst-kix_w1b687jpl7aq-6>li:before{content:"" counter(lst-ctn-kix_w1b687jpl7aq-6,decimal) ". "}ol.lst-kix_1eziyh8wpo9m-6{list-style-type:none}ol.lst-kix_1eziyh8wpo9m-5{list-style-type:none}.lst-kix_nmvs9ggv30vs-5>li{counter-increment:lst-ctn-kix_nmvs9ggv30vs-5}ol.lst-kix_1eziyh8wpo9m-4{list-style-type:none}ol.lst-kix_1eziyh8wpo9m-3{list-style-type:none}.lst-kix_w1b687jpl7aq-8>li:before{content:"" counter(lst-ctn-kix_w1b687jpl7aq-8,lower-roman) ". "}ol.lst-kix_ktelr1m10za6-7{list-style-type:none}ol.lst-kix_ktelr1m10za6-8{list-style-type:none}ol.lst-kix_1eziyh8wpo9m-8{list-style-type:none}ol.lst-kix_ktelr1m10za6-5{list-style-type:none}.lst-kix_ktelr1m10za6-5>li{counter-increment:lst-ctn-kix_ktelr1m10za6-5}ol.lst-kix_1eziyh8wpo9m-7{list-style-type:none}ol.lst-kix_ktelr1m10za6-6{list-style-type:none}.lst-kix_1eziyh8wpo9m-3>li{counter-increment:lst-ctn-kix_1eziyh8wpo9m-3}.lst-kix_ktelr1m10za6-4>li{counter-increment:lst-ctn-kix_ktelr1m10za6-4}ol.lst-kix_tsy7d9cmpnql-0.start{counter-reset:lst-ctn-kix_tsy7d9cmpnql-0 0}ol.lst-kix_w1b687jpl7aq-6.start{counter-reset:lst-ctn-kix_w1b687jpl7aq-6 0}.lst-kix_tsy7d9cmpnql-2>li{counter-increment:lst-ctn-kix_tsy7d9cmpnql-2}.lst-kix_olk4fr9lh4l1-3>li{counter-increment:lst-ctn-kix_olk4fr9lh4l1-3}ol.lst-kix_nmvs9ggv30vs-7.start{counter-reset:lst-ctn-kix_nmvs9ggv30vs-7 0}.lst-kix_w1b687jpl7aq-0>li:before{content:"" counter(lst-ctn-kix_w1b687jpl7aq-0,decimal) ". "}.lst-kix_nmvs9ggv30vs-7>li{counter-increment:lst-ctn-kix_nmvs9ggv30vs-7}ol.lst-kix_olk4fr9lh4l1-0{list-style-type:none}ol.lst-kix_1eziyh8wpo9m-2.start{counter-reset:lst-ctn-kix_1eziyh8wpo9m-2 0}.lst-kix_1eziyh8wpo9m-2>li{counter-increment:lst-ctn-kix_1eziyh8wpo9m-2}ol.lst-kix_w1b687jpl7aq-7.start{counter-reset:lst-ctn-kix_w1b687jpl7aq-7 0}ol.lst-kix_ktelr1m10za6-7.start{counter-reset:lst-ctn-kix_ktelr1m10za6-7 0}ol.lst-kix_olk4fr9lh4l1-4{list-style-type:none}ol.lst-kix_olk4fr9lh4l1-3{list-style-type:none}ol.lst-kix_olk4fr9lh4l1-2{list-style-type:none}ol.lst-kix_olk4fr9lh4l1-1{list-style-type:none}ol.lst-kix_olk4fr9lh4l1-8{list-style-type:none}.lst-kix_nmvs9ggv30vs-0>li:before{content:"" counter(lst-ctn-kix_nmvs9ggv30vs-0,decimal) ". "}ol.lst-kix_olk4fr9lh4l1-7{list-style-type:none}ol.lst-kix_olk4fr9lh4l1-6{list-style-type:none}ol.lst-kix_olk4fr9lh4l1-5{list-style-type:none}.lst-kix_nmvs9ggv30vs-2>li:before{content:"" counter(lst-ctn-kix_nmvs9ggv30vs-2,lower-roman) ". "}.lst-kix_tsy7d9cmpnql-2>li:before{content:"" counter(lst-ctn-kix_tsy7d9cmpnql-2,lower-roman) ". "}.lst-kix_tsy7d9cmpnql-4>li:before{content:"" counter(lst-ctn-kix_tsy7d9cmpnql-4,lower-latin) ". "}.lst-kix_w1b687jpl7aq-4>li{counter-increment:lst-ctn-kix_w1b687jpl7aq-4}.lst-kix_tsy7d9cmpnql-3>li{counter-increment:lst-ctn-kix_tsy7d9cmpnql-3}ol.lst-kix_1eziyh8wpo9m-1.start{counter-reset:lst-ctn-kix_1eziyh8wpo9m-1 0}ol.lst-kix_nmvs9ggv30vs-8.start{counter-reset:lst-ctn-kix_nmvs9ggv30vs-8 0}.lst-kix_nmvs9ggv30vs-4>li:before{content:"" counter(lst-ctn-kix_nmvs9ggv30vs-4,lower-latin) ". "}li.li-bullet-0:before{margin-left:-18pt;white-space:nowrap;display:inline-block;min-width:18pt}ol.lst-kix_ktelr1m10za6-8.start{counter-reset:lst-ctn-kix_ktelr1m10za6-8 0}ol.lst-kix_w1b687jpl7aq-8.start{counter-reset:lst-ctn-kix_w1b687jpl7aq-8 0}.lst-kix_nmvs9ggv30vs-0>li{counter-increment:lst-ctn-kix_nmvs9ggv30vs-0}.lst-kix_nmvs9ggv30vs-6>li:before{content:"" counter(lst-ctn-kix_nmvs9ggv30vs-6,decimal) ". "}.lst-kix_tsy7d9cmpnql-6>li:before{content:"" counter(lst-ctn-kix_tsy7d9cmpnql-6,decimal) ". "}.lst-kix_tsy7d9cmpnql-8>li:before{content:"" counter(lst-ctn-kix_tsy7d9cmpnql-8,lower-roman) ". "}.lst-kix_nmvs9ggv30vs-8>li:before{content:"" counter(lst-ctn-kix_nmvs9ggv30vs-8,lower-roman) ". "}ol{margin:0;padding:0}table td,table th{padding:0}.c0{margin-left:36pt;padding-top:10pt;padding-left:0pt;padding-bottom:0pt;line-height:1.3;orphans:2;widows:2;text-align:left}.c2{color:#00ab44;font-weight:700;text-decoration:none;vertical-align:baseline;font-size:13pt;font-family:"Proxima Nova";font-style:normal}.c11{padding-top:20pt;padding-bottom:0pt;line-height:1.3;orphans:2;widows:2;text-align:left;height:11pt}.c1{color:#353744;font-weight:400;text-decoration:none;vertical-align:baseline;font-size:10pt;font-family:"Proxima Nova";font-style:normal}.c13{padding-top:0pt;padding-bottom:0pt;line-height:1.3;orphans:2;widows:2;text-align:left}.c3{padding-top:16pt;padding-bottom:0pt;line-height:1.0;orphans:2;widows:2;text-align:left}.c16{padding-top:0pt;padding-bottom:0pt;line-height:1.0;orphans:2;widows:2;text-align:left}.c7{color:#353744;text-decoration:none;vertical-align:baseline;font-size:13pt;font-family:"Proxima Nova";font-style:normal}.c4{padding-top:10pt;padding-bottom:0pt;line-height:1.3;orphans:2;widows:2;text-align:left}.c20{padding-top:0pt;padding-bottom:10pt;line-height:1.0;orphans:2;widows:2;text-align:left}.c9{padding-top:24pt;padding-bottom:0pt;line-height:1.0;orphans:2;widows:2;text-align:left}.c14{color:#353744;text-decoration:none;vertical-align:baseline;font-size:11pt;font-style:normal}.c21{color:#666666;text-decoration:none;vertical-align:baseline;font-family:"Proxima Nova";font-style:normal}.c18{color:#353744;text-decoration:none;vertical-align:baseline;font-size:12pt;font-style:normal}.c17{color:#353744;text-decoration:none;vertical-align:baseline;font-size:35pt;font-style:normal}.c19{background-color:#ffffff;max-width:468pt;padding:54pt 72pt 54pt 72pt}.c10{padding:0;margin:0}.c15{color:#666666;font-size:9pt}.c12{font-family:"Proxima Nova";font-weight:400}.c22{font-weight:400;font-size:9pt}.c6{font-weight:700}.c8{font-size:13pt}.c24{vertical-align:super}.c23{font-size:35pt}.c5{font-size:10pt}.title{padding-top:16pt;color:#353744;font-size:36pt;padding-bottom:0pt;font-family:"Proxima Nova";line-height:1.0;orphans:2;widows:2;text-align:left}.subtitle{padding-top:0pt;color:#666666;font-size:13pt;padding-bottom:0pt;font-family:"Proxima Nova";line-height:1.0;orphans:2;widows:2;text-align:left}li{color:#353744;font-size:11pt;font-family:"Proxima Nova"}p{margin:0;color:#353744;font-size:11pt;font-family:"Proxima Nova"}h1{padding-top:24pt;color:#353744;font-weight:700;font-size:14pt;padding-bottom:0pt;font-family:"Proxima Nova";line-height:1.0;orphans:2;widows:2;text-align:left}h2{padding-top:16pt;color:#00ab44;font-weight:700;font-size:14pt;padding-bottom:0pt;font-family:"Proxima Nova";line-height:1.0;orphans:2;widows:2;text-align:left}h3{padding-top:10pt;color:#353744;font-size:13pt;padding-bottom:0pt;font-family:"Proxima Nova";line-height:1.0;orphans:2;widows:2;text-align:left}h4{padding-top:8pt;-webkit-text-decoration-skip:none;color:#666666;text-decoration:underline;font-size:11pt;padding-bottom:0pt;line-height:1.3;page-break-after:avoid;text-decoration-skip-ink:none;font-family:"Trebuchet MS";orphans:2;widows:2;text-align:left}h5{padding-top:8pt;color:#666666;font-size:11pt;padding-bottom:0pt;font-family:"Trebuchet MS";line-height:1.3;page-break-after:avoid;orphans:2;widows:2;text-align:left}h6{padding-top:8pt;color:#666666;font-size:11pt;padding-bottom:0pt;font-family:"Trebuchet MS";line-height:1.3;page-break-after:avoid;font-style:italic;orphans:2;widows:2;text-align:left}</style></head><body class="c19"><div><p class="c11"><span class="c14 c12"></span></p><p class="c13"><span style="overflow: hidden; display: inline-block; margin: 0.00px 0.00px; border: 0.00px solid #000000; transform: rotate(0.00rad) translateZ(0px); -webkit-transform: rotate(0.00rad) translateZ(0px); width: 624.00px; height: 4.00px;"><img alt="" src="images/image1.png" style="width: 624.00px; height: 4.00px; margin-left: 0.00px; margin-top: 0.00px; transform: rotate(0.00rad) translateZ(0px); -webkit-transform: rotate(0.00rad) translateZ(0px);" title="horizontal line"></span></p></div><p class="c20"><span style="overflow: hidden; display: inline-block; margin: 0.00px 0.00px; border: 0.00px solid #000000; transform: rotate(0.00rad) translateZ(0px); -webkit-transform: rotate(0.00rad) translateZ(0px); width: 624.00px; height: 6.67px;"><img alt="" src="images/image2.png" style="width: 624.00px; height: 6.67px; margin-left: 0.00px; margin-top: 0.00px; transform: rotate(0.00rad) translateZ(0px); -webkit-transform: rotate(0.00rad) translateZ(0px);" title="horizontal line"></span></p><p class="c16"><span class="c2">SmokeyHearsYou</span></p><p class="c16"><span class="c15">Tara Keene(Mock-up code challenge tech write-up with DeepGram voice-to-text API)</span></p><p class="c3 title" id="h.5x0d5h95i329"><span class="c23">DG Avid Reader Sleep Aid</span></p><p class="c16 subtitle" id="h.af80tl7prv5v"><span class="c6">17</span><span class="c6 c24">th</span><span class="c6">&nbsp;March 2022</span></p><h1 class="c9" id="h.14mpx6a8znb7"><span class="c8">OVERVIEW</span></h1><p class="c4"><span class="c5">I have ADHD and I find my audible books very helpful to aiding in me falling asleep. I also have a problem where I forget to set the sleep timer. Sometimes my books or the restroom rouse me and I will try to find my place in the captivating novel and in a state of half-asleep, I barely remember, but it disrupts what could have been an essential solid and goodnight&rsquo;s sleep.</span></p><h1 class="c9" id="h.oymnw3nlvwib"><span class="c6 c7">GOALS</span></h1><ol class="c10 lst-kix_w1b687jpl7aq-0 start" start="1"><li class="c0 li-bullet-0"><span class="c1">AI that recognizes when humans are asleep through speech input analysis and Q&amp;A.</span></li><li class="c0 li-bullet-0"><span class="c5">Verify level of alertness. First initiative: check with a question asking the user for the current date and verifying the correct answer. &nbsp;</span></li></ol><h1 class="c9" id="h.c5rpsdy8g2ak"><span class="c8 c12">SPECIFICATIONS</span></h1><p class="c4"><span class="c1">Checkdate function</span></p><p class="c4"><span class="c1">Ask user for input and get input from voice to text</span></p><p class="c4"><span class="c5">Verify wakefulness, T.B.D.</span></p><h1 class="c9" id="h.x5u0l8hx0kbh"><span class="c8">MILESTONES/Let&rsquo;s Just get started</span></h1><h2 class="c3" id="h.jltys38rhgql"><span class="c8">Function</span></h2><p class="c4"><span class="c5">Audio input function that asks user for verification of wakefulness and checks current date</span></p><h2 class="c3" id="h.6x8rkjwa8fzc"><span class="c8">Future Goals</span></h2><p class="c4"><span class="c5">Will let the user control playback from the device if they prove they are alert and awake. Otherwise will propose reassurance to find a place to mark books and offer alternative options like a sleep meditation or rain sounds to gently coerce the avid book lover back to their good night of sleep.</span></p></body></html>
